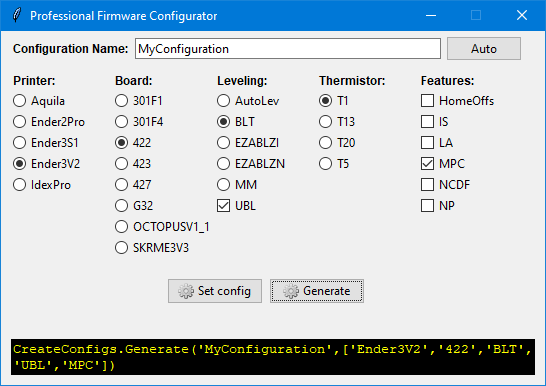
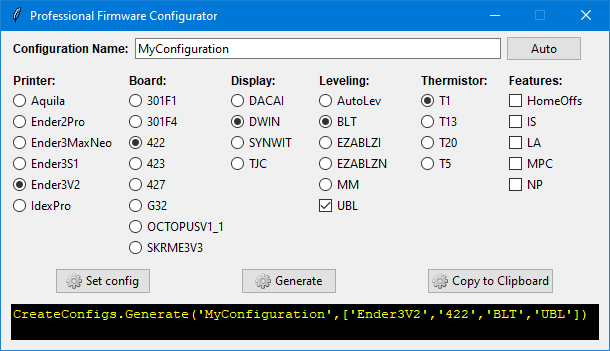
Updated Configurator.pyw with Display options

diff --git a/CreateConfigs.py b/CreateConfigs.py
@@ -4,8 +4,8 @@
 # Configurations generator script for the Professional Firmware
 # Author: Miguel A. Risco Castillo
 # URL: https://github.com/mriscoc/Marlin_Configurations
-# version: 5.1
-# date: 2022/07/28
+# version: 6.1
+# date: 2022/03/22
 # ------------------------------------------------------------------------------
 
 import re
@@ -141,7 +141,7 @@ def CustomizeFile(Machine_Name, SourceDir, TargetDir, Mode, config) :
     if verbose: log(">>>> using: _printers/Common.json")
     lines = ProcessLines("_printers/Common.json", config)
 
-    PathConfig = ['_printers/','_boards/','_leveling/','_thermistor/','_features/']
+    PathConfig = ['_printers/','_boards/','_displays/','_leveling/','_thermistor/','_features/']
     for val in Mode:
       for path in PathConfig:
         JsonFile = path + val + '.json'
